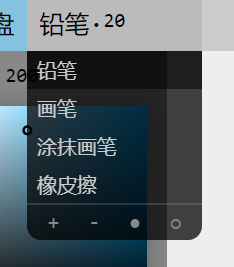
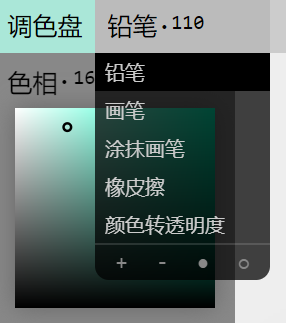
add color > opacity function

diff --git a/gl/javascripts/renderer/renderer-gl-utils-effects.js b/gl/javascripts/renderer/renderer-gl-utils-effects.js
@@ -1,0 +1,69 @@
+GLImageDataFactory.prototype._initEffectProgram=function(){
+	// Color to Opacity program
+	const vc2oShaderSource=glsl`
+		attribute vec2 a_dst_pos; // drawing area on target
+		attribute vec2 a_src_pos; // sample area from source
+		varying vec2 v_pos;
+		void main(){
+			v_pos=a_src_pos;
+			gl_Position=vec4(a_dst_pos*2.-1.,0.,1.); // to clip space
+		}
+	`;
+	const fc2oShaderSource=glsl`
+		precision mediump float;
+		precision mediump sampler2D;
+		const vec4 WHITE=vec4(1.,1.,1.,1.);
+		uniform sampler2D u_image;
+		varying vec2 v_pos;
+		void main(){
+			vec4 pix=texture2D(u_image,v_pos);
+			vec4 newPix=(1.-pix.w)*WHITE+pix;
+			vec4 pixInv=WHITE-newPix;
+			float newA=max(max(pixInv.x,pixInv.y),pixInv.z);
+			gl_FragColor=WHITE*newA-pixInv;
+		}
+	`;
+	this.c2oProgram=new GLProgram(this.gl,vc2oShaderSource,fc2oShaderSource);
+};
+
+GLImageDataFactory.prototype.color2Opacity=function(src){
+	const gl=this.gl;
+	const program=this.c2oProgram;
+	const W=src.validArea.width;
+	const H=src.validArea.height;
+	if(!(W&&H)) {
+		return;
+	}
+
+	// Setup temp texture for extracting data
+	// align tmp with src.validArea
+	const tmpImageData=this.renderer.tmpImageData;
+	this.renderer.clearImageData(tmpImageData);
+	tmpImageData.left=src.validArea.left;
+	tmpImageData.top=src.validArea.top;
+
+	// TODO: if tmpImageData smaller than src.validArea, use new texture.
+	// Or, render src by blocks
+
+	// Run program to get a zoomed texture
+	program.setSourceTexture("u_image",src.data);
+	program.setTargetTexture(tmpImageData.data);
+	
+	program.setAttribute("a_src_pos",GLProgram.getAttributeRect(src.validArea,src),2);
+	program.setAttribute("a_dst_pos",GLProgram.getAttributeRect(),2);
+
+	gl.viewport(0,tmpImageData.height-H,W,H); // set size to target (left-top)
+	gl.blendFunc(gl.ONE,gl.ZERO); // copy
+	program.run();
+
+	// copy result back
+	tmpImageData.validArea={
+		width: W,
+		height: H,
+		left: tmpImageData.left,
+		top: tmpImageData.top
+	};
+	this.renderer.clearImageData(src);
+	this.renderer.blendImageData(tmpImageData,src,{mode: BasicRenderer.SOURCE});
+	// blend afterwards: needn't to change program during the following layer composition
+}

diff --git a/gl/index.html b/gl/index.html
@@ -62,6 +62,7 @@
 	<script src="./javascripts/brush/brush.js"></script>
 	<script src="./javascripts/brush/brush-settings.js"></script>
 	<script src="./javascripts/brush/brush-selector.js"></script>
+	<script src="./javascripts/brush/brush-accessories.js"></script>
 	<script src="./javascripts/cursor.js"></script>
 
 	<!-- Layer managements -->
@@ -89,9 +90,10 @@
 	<script src="./javascripts/renderer/gl-utils.js"></script>
 	<script src="./javascripts/renderer/renderer.js"></script>
 	<script src="./javascripts/renderer/renderer-gl-vram-manager.js"></script>
-	<script src="./javascripts/renderer/renderer-gl-utils.js"></script>
-	<script src="./javascripts/renderer/renderer-gl-brush.js"></script>
 	<script src="./javascripts/renderer/renderer-gl.js"></script>
+	<script src="./javascripts/renderer/renderer-gl-brush.js"></script>
+	<script src="./javascripts/renderer/renderer-gl-utils.js"></script>
+	<script src="./javascripts/renderer/renderer-gl-utils-effects.js"></script>
 	<script src="./javascripts/layer/layer-compositor.js"></script>
 
 	<script src="./javascripts/canvas.js"></script>

diff --git a/gl/javascripts/canvas.js b/gl/javascripts/canvas.js
@@ -448,6 +448,27 @@ CANVAS.pickColor=function(x,y) { // ALL visible layers, (x,y) is under the windo
 	return SMath.blendNormal([...PALETTE.colorSelector.getRGB(),1],pSum); //pSum
 }
 
+CANVAS.color2Opacity=function(){
+	if(!CANVAS.renderer||!CANVAS.settings.enabled) {
+		// No canvas, can't draw on it
+		return false;
+	}
+	// get params of this layer in a tree
+	CANVAS.targetLayerVisible=CANVAS.nowLayer.isVisible();
+	CANVAS.targetLayerLocked=CANVAS.nowLayer.isLocked();
+	CANVAS.targetLayerOpacityLocked=CANVAS.nowLayer.isOpacityLocked();
+	if(!CANVAS.targetLayerVisible||CANVAS.targetLayerLocked) { // locked
+		return false;
+	}
+	CANVAS.renderer.colorToOpacity(CANVAS.nowLayer.rawImageData);
+
+	// update UI
+	CANVAS.nowLayer.updateThumb();
+	CANVAS.nowLayer.setRawImageDataInvalid(); // the data is invalid now
+	CANVAS.requestRefresh(); // refresh display
+	return true;
+}
+
 // ========= Panning translation on imageData =========
 // @TODO: move this to a new class?
 

diff --git a/gl/javascripts/brush/brush-accessories.js b/gl/javascripts/brush/brush-accessories.js
@@ -1,0 +1,19 @@
+BrushManager.initBrushAccessories=function($defTable){
+	const $block=$("<td class='brush-selector-item'>");
+	$block.text(Lang("color-to-opacity"));
+	const $row=$("<tr>").append($block);
+	EventDistributer.footbarHint($row,() => Lang("Replace white component with transparency."));
+	//brush.$row=$row; // backward ref
+	$row.click(event => {
+		// do color ==> opacity program
+		if(CANVAS.color2Opacity()){
+			HISTORY.addHistory({ // add raw image data changed history
+				type: "image-data",
+				id: LAYERS.active.id,
+				area: LAYERS.active.rawImageData.validArea // not changed before/after
+			});
+			STORAGE.FILES.saveContentChanges(LAYERS.active);
+		}
+	});
+	$defTable.append($row);
+};

diff --git a/gl/javascripts/renderer/renderer-gl-utils.js b/gl/javascripts/renderer/renderer-gl-utils.js
@@ -547,10 +547,14 @@ class GLImageDataFactory {
 	 * These functions are all time consuming! Reduce the use.
 	 */
 	constructor(renderer) {
+		this.renderer=renderer;
 		this.gl=renderer.gl;
 		this.dataFormat=renderer.dataFormat;
 
 		this._initConverterProgram();
+
+		// in utils-effects.js
+		this._initEffectProgram();
 	}
 
 	_initConverterProgram(){

diff --git a/gl/javascripts/renderer/renderer-gl.js b/gl/javascripts/renderer/renderer-gl.js
@@ -628,6 +628,11 @@ class GLRenderer extends BasicRenderer {
 		this.textureBlender.blendTexture(src,tgt,param);
 	}
 
+	colorToOpacity(src){
+		this.vramManager.verify(src);
+		this.imageDataFactory.color2Opacity(src);
+	}
+
 	// debug: add wire frame
 	// draw a border wire frame of the source.color on the target
 	drawEdge(src,tgt,optArea) {

diff --git a/gl/javascripts/languages/lang-zh.js b/gl/javascripts/languages/lang-zh.js
@@ -93,6 +93,9 @@ LANG_ZH={
 	"circ":"圈",
 	"Auto":"自动",
 
+	"color-to-opacity":"颜色转透明度",
+	"Replace white component with transparency.":"将白色成分转换为透明度",
+
 	// Layer
 	"layer-opacity-label-shown":"调节图层不透明度。右键隐藏图层",
 	"layer-opacity-label-hidden":"右键显示图层",

diff --git a/gl/styles/top-menu-style.css b/gl/styles/top-menu-style.css
@@ -116,7 +116,7 @@
 	transition: background-color 0.25s;
 }
 #brush-selector-menu .brush-selector-tr-selected{
-	background-color: #00000088; /* For seeing brushtip clear */
+	background-color: #000000; /* For seeing brushtip clear */
 }
 .brush-selector-canvas-container{
 	position: relative;

diff --git a/gl/javascripts/brush/brush-selector.js b/gl/javascripts/brush/brush-selector.js
@@ -12,6 +12,8 @@ BrushManager.initBrushSelector=function(customBrushes) {
 		});
 		$defTable.append($row);
 	}
+
+	BrushManager.initBrushAccessories($defTable);
 	$("#brush-selector-default").append($defTable);
 
 	if(customBrushes){ // customBrushes only contain RAMBuf8 now

diff --git a/gl/javascripts/languages/lang-en.js b/gl/javascripts/languages/lang-en.js
@@ -16,6 +16,8 @@ LANG_EN={
 	"Pressure Controlled Opacity":"Pen Pressure",
 	"new-brush-prefix":"New ",
 
+	"color-to-opacity":"Color > Opa",
+
 	// Settings part
 	"sys-info":"Information",
 	"sys-mem":"RAM Usage",

diff --git a/gl/docs/zh/manual/brush.md b/gl/docs/zh/manual/brush.md
@@ -79,6 +79,22 @@ Skeeetch中有几种默认笔刷。你也可以以这些笔刷为模板自定义
 
 在*设置* > *纸张* > *抗锯齿* 项目中可用开启/关闭抗锯齿。详见[系统设置](./system.md)章节。
 
+## 附加功能
+
+### 颜色转透明度
+
+Skeeetch拥有将图层颜色转透明度的功能。在导入Skeeetch的线稿或照片（有白色底色）上涂色时这是很有用的功能。
+
+> 如果不想破坏原有像素而也可以为白底色线稿上色，可为图层使用[正片叠底混合模式](./layers.md#混合模式)。
+
+这个功能不是一个笔刷，只是位于笔刷菜单里的一个按钮。
+
+![color-to-opacity](./images/color-to-opacity.png)
+
+> 左：导入的图像有一个白色底色，右：点击颜色转透明度按钮去除底色后
+
+点击颜色转透明度按钮可以将当前选定图层的白色底色去除。注意如果图层已锁定、不可见、或位于一个锁定的图层组内，将不会进行底色去除。图层组上转换功能不可用。
+
 ## 自定义笔刷
 
 （注：目前仅可以自定义笔刷参数。今后会更新自定义笔刷图案的功能）

diff --git a/gl/docs/zh/readme.md b/gl/docs/zh/readme.md
@@ -120,12 +120,11 @@ Skeeetch支持之前操作的撤销和在撤销之后的重做。在右下角的
 * <del>多点触控支持，触摸板/触屏支持</del>（我觉得能先支持好单点就不错了）
 * 更多的画笔（模糊画笔、油漆桶画笔、自定义画笔等）
 * 图层变形，裁切
-* 亮度转透明度
 * 调整图层（曝光对比度，色偏饱和度等），直方图
 * 引导线和透视引导线
 * 全局缩略图
 
-##声明及许可证
+## 声明及许可证
 
 Skeeetch 基于 *Apache License 2.0* 许可证发布。*Apache License 2.0* 许可证适用于Skeeetch的所有代码和界面资源，但不包含用户的操作以及用户基于Skeeetch所创作的内容及作品。
 
